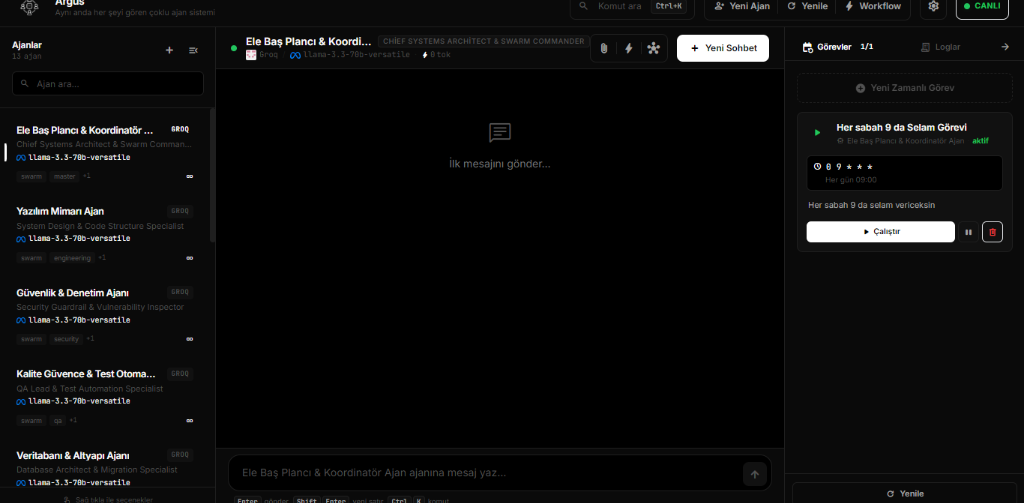
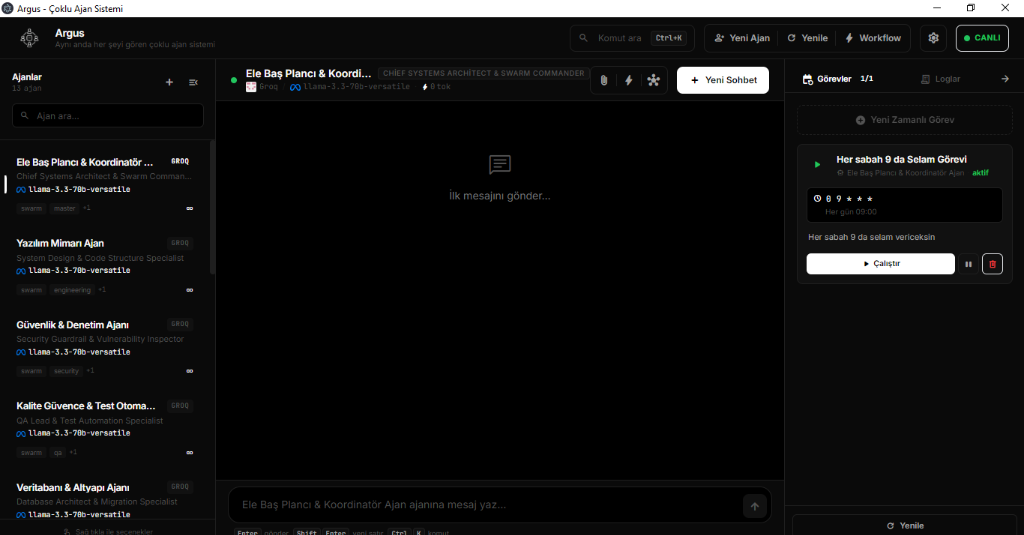
feat(ui): add custom dark theme window controls and high-quality lossless screenshot

diff --git a/frontend/src/components/Header.tsx b/frontend/src/components/Header.tsx
@@ -54,9 +54,9 @@ export function Header({
   onOpenWorkflows,
   onOpenCommandPalette}: HeaderProps) {
   return (
-    <header className="h-14 flex-shrink-0 flex items-center justify-between px-4 border-b border-brand-border bg-brand-panel animate-fade-in-down">
+    <header className="h-14 flex-shrink-0 flex items-center justify-between px-4 border-b border-brand-border bg-brand-panel animate-fade-in-down select-none" style={{ WebkitAppRegion: 'drag' } as any}>
       {/* Sol: Logo + isim */}
-      <div className="flex items-center gap-2.5 min-w-0">
+      <div className="flex items-center gap-2.5 min-w-0" style={{ WebkitAppRegion: 'no-drag' } as any}>
         <img
           src="/logo.png"
           className="w-10 h-10 rounded-lg object-contain flex-shrink-0"
@@ -73,7 +73,7 @@ export function Header({
       </div>
 
       {/* Sağ: Komut paleti + aksiyon grubu + ayarlar + bağlantı */}
-      <div className="flex items-center gap-2">
+      <div className="flex items-center gap-2" style={{ WebkitAppRegion: 'no-drag' } as any}>
         {/* Komut paleti — özel kbd hint'li search-look */}
         {onOpenCommandPalette && (
           <button
@@ -202,6 +202,33 @@ export function Header({
             />
           </span>
         </div>
+
+        {/* Window Controls (Electron desktop mode) */}
+        {typeof window !== 'undefined' && (window as any).openclaw?.windowControls && (
+          <div className="flex items-center gap-1 ml-2 pl-2 border-l border-brand-border select-none" style={{ WebkitAppRegion: 'no-drag' } as any}>
+            <button
+              onClick={() => (window as any).openclaw.windowControls.minimize()}
+              title="Küçült (-)"
+              className="w-7 h-7 inline-flex items-center justify-center rounded-md text-brand-textSoft hover:text-brand-text hover:bg-brand-panelAlt transition-all duration-150 active:scale-90"
+            >
+              <span className="text-[11px] font-bold">─</span>
+            </button>
+            <button
+              onClick={() => (window as any).openclaw.windowControls.maximize()}
+              title="Ekranı Kapla / Tam Ekran (□)"
+              className="w-7 h-7 inline-flex items-center justify-center rounded-md text-brand-textSoft hover:text-brand-text hover:bg-brand-panelAlt transition-all duration-150 active:scale-90"
+            >
+              <span className="w-2.5 h-2.5 border-1.5 border-current rounded-[1px] block" />
+            </button>
+            <button
+              onClick={() => (window as any).openclaw.windowControls.close()}
+              title="Kapat (✕)"
+              className="w-7 h-7 inline-flex items-center justify-center rounded-md text-brand-textSoft hover:text-white hover:bg-red-500/90 transition-all duration-150 active:scale-90"
+            >
+              <span className="text-[12px] font-bold">✕</span>
+            </button>
+          </div>
+        )}
       </div>
     </header>
   );

diff --git a/scripts/crop_hq.py b/scripts/crop_hq.py
@@ -1,0 +1,27 @@
+import os
+from PIL import Image
+
+src = r"C:\Users\HP\.gemini\antigravity\brain\e6346b68-c61a-4581-92d2-ab307f74b85e\.user_uploaded\media__1785156512311.png"
+out_dir = os.path.join("docs", "images")
+os.makedirs(out_dir, exist_ok=True)
+
+dst1 = os.path.join(out_dir, "argus_app_gui.png")
+dst2 = os.path.join(out_dir, "argus_ui_overview.png")
+
+if os.path.exists(src):
+    img = Image.open(src)
+    w, h = img.size
+    print(f"Original image dimensions: {w}x{h}")
+    
+    # Sadece alt Windows görev çubuğunu (yaklaşık 40px) hassas şekilde kırp, üst başlık çubuğunu VE alt kontrol butonlarını KORU!
+    # Top: 0 (Üst başlık çubuğu "Argus - Çoklu Ajan Sistemi" ve X/-/_ butonları tam korunsun)
+    # Bottom: h - 40 (Sadece Windows masaüstü görev çubuğu kırpılsın)
+    crop_box = (0, 0, w, h - 40)
+    cropped = img.crop(crop_box)
+    
+    # En yüksek kalitede (Lossless PNG, optimize=False, PNG 100% kalite) kaydet
+    cropped.save(dst1, format="PNG", compress_level=0)
+    cropped.save(dst2, format="PNG", compress_level=0)
+    print(f"SUCCESS: High Quality 4K Cropped Image Saved to {dst1} and {dst2} (Size: {cropped.size})")
+else:
+    print(f"ERROR: Source file not found: {src}")
